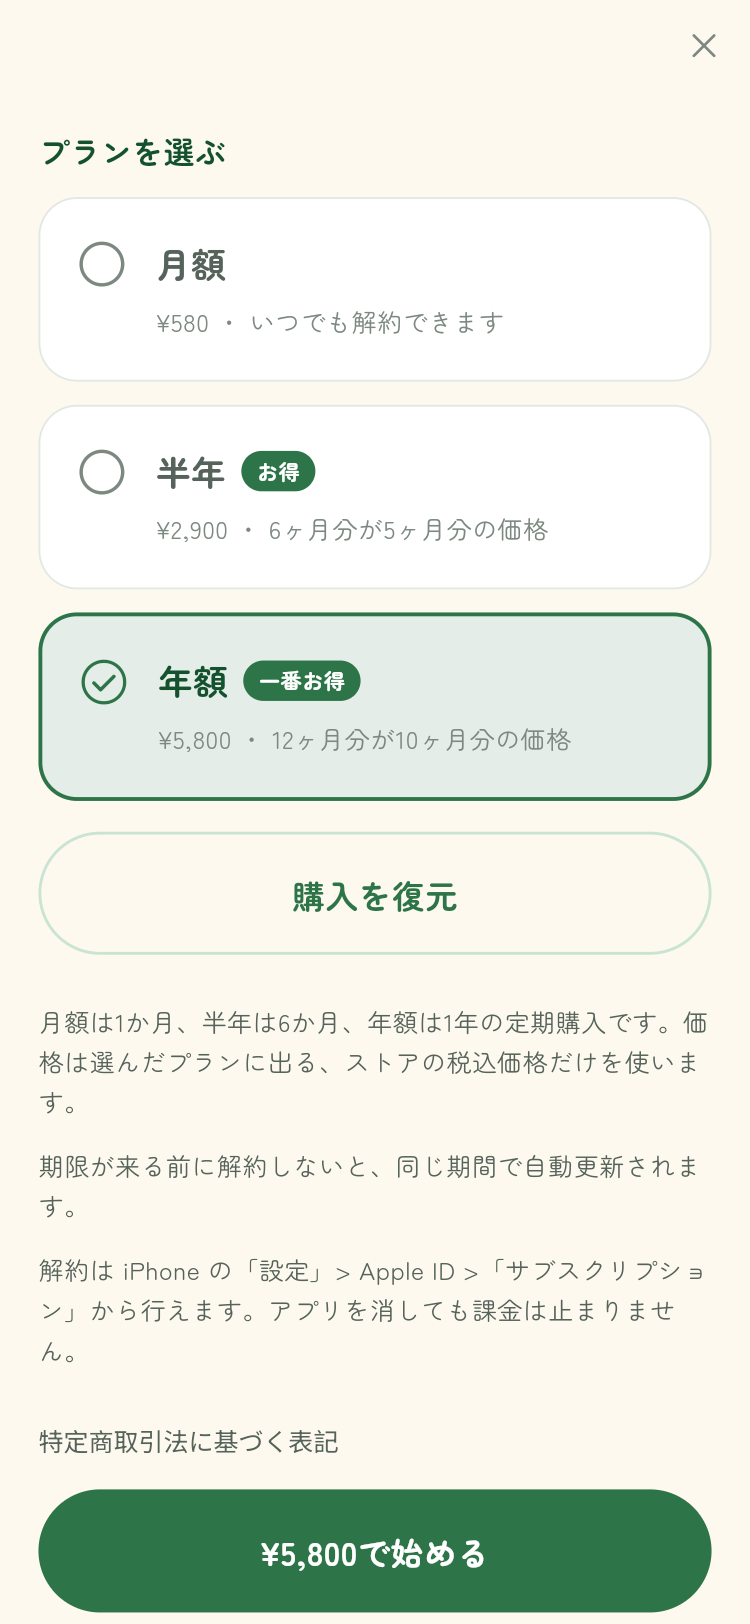
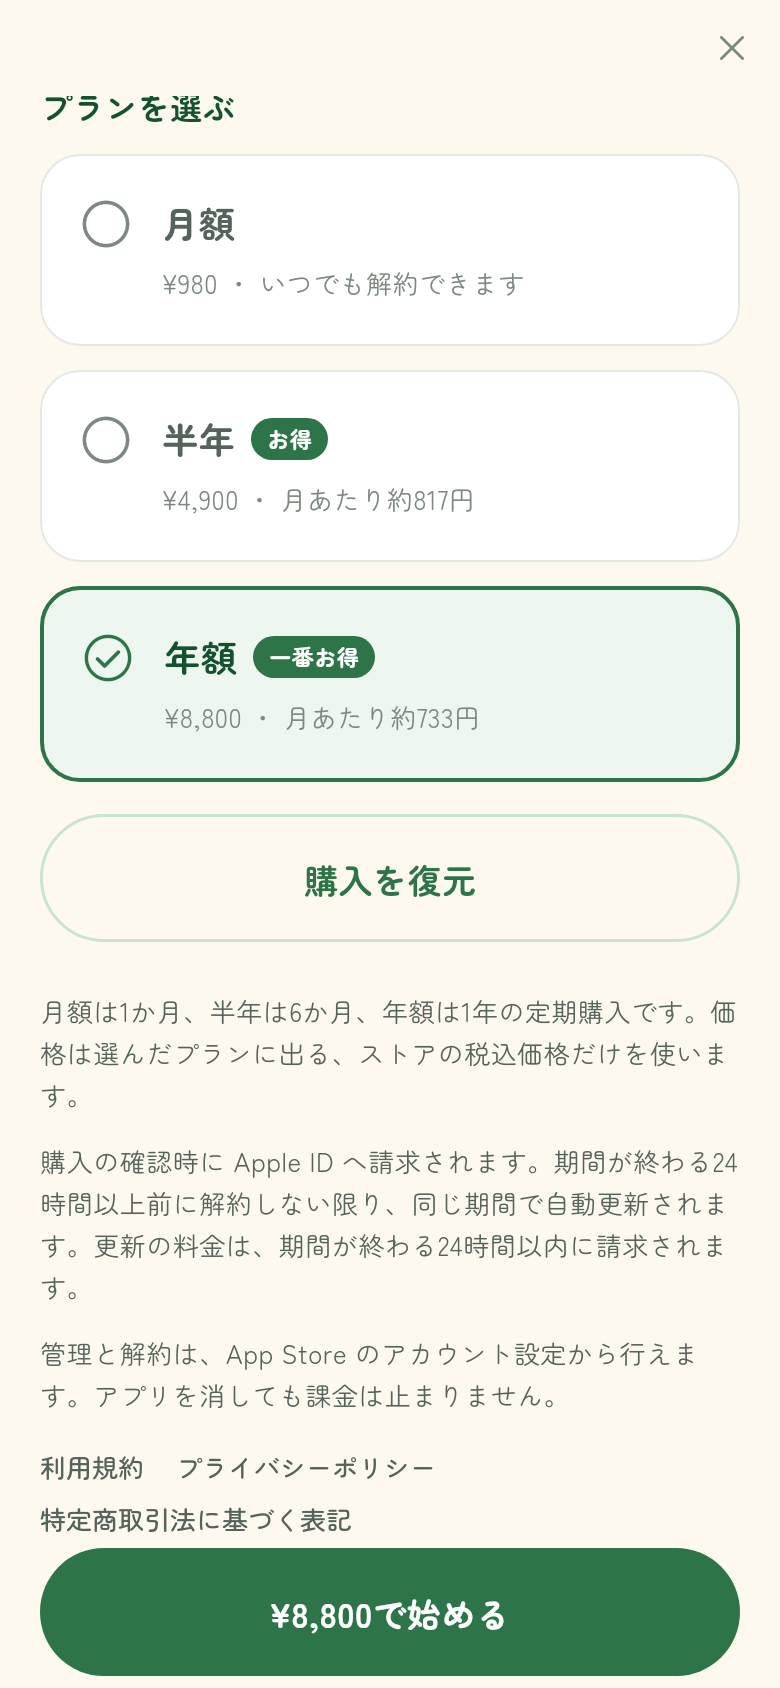
カロナビ+の購入画面のスクリーンショットを新価格に撮り直す
予備表示でも StoreKit と同じ ¥980 / ¥4,900 / ¥8,800 と、月あたり約817円・約733円が出る。

diff --git a/test/plus_price_screenshot_test.dart b/test/plus_price_screenshot_test.dart
@@ -57,10 +57,19 @@ void main() {
     final directory = Directory('/opt/cursor/artifacts/screenshots');
     directory.createSync(recursive: true);
 
-    await _capturePlans(
+    await _capture(
+      tester,
+      UnavailableSubscriptionRepository(),
+      File('${directory.path}/paywall_top.png'),
+      scrollToPlans: false,
+    );
+    expect(find.text('¥8,800で始める'), findsOneWidget);
+
+    await _capture(
       tester,
       UnavailableSubscriptionRepository(),
       File('${directory.path}/paywall_plans_fallback.png'),
+      scrollToPlans: true,
     );
     expect(find.text('¥980 ・ いつでも解約できます'), findsOneWidget);
     expect(find.text('¥4,900 ・ 月あたり約817円'), findsOneWidget);
@@ -69,10 +78,11 @@ void main() {
     expect(find.text('お得'), findsOneWidget);
     expect(find.text('一番お得'), findsOneWidget);
 
-    await _capturePlans(
+    await _capture(
       tester,
       _StorePrices(),
       File('${directory.path}/paywall_plans_store.png'),
+      scrollToPlans: true,
     );
     expect(find.text('¥8,800で始める'), findsOneWidget);
 
@@ -103,11 +113,12 @@ void main() {
   });
 }
 
-Future<void> _capturePlans(
+Future<void> _capture(
   WidgetTester tester,
   UnavailableSubscriptionRepository repository,
-  File file,
-) async {
+  File file, {
+  required bool scrollToPlans,
+}) async {
   final key = GlobalKey();
   await tester.binding.setSurfaceSize(const Size(390, 844));
   await tester.pumpWidget(
@@ -121,10 +132,12 @@ Future<void> _capturePlans(
     ),
   );
   await tester.pumpAndSettle();
-  await tester.scrollUntilVisible(find.text('プランを選ぶ'), 400);
-  await tester.pumpAndSettle();
-  await tester.ensureVisible(find.text('年額'));
-  await tester.pumpAndSettle();
+  if (scrollToPlans) {
+    await tester.scrollUntilVisible(find.text('プランを選ぶ'), 400);
+    await tester.pumpAndSettle();
+    await tester.ensureVisible(find.text('年額'));
+    await tester.pumpAndSettle();
+  }
   final bytes = await tester.runAsync(
     () => pngBytesFromBoundary(key, pixelRatio: 2),
   );
